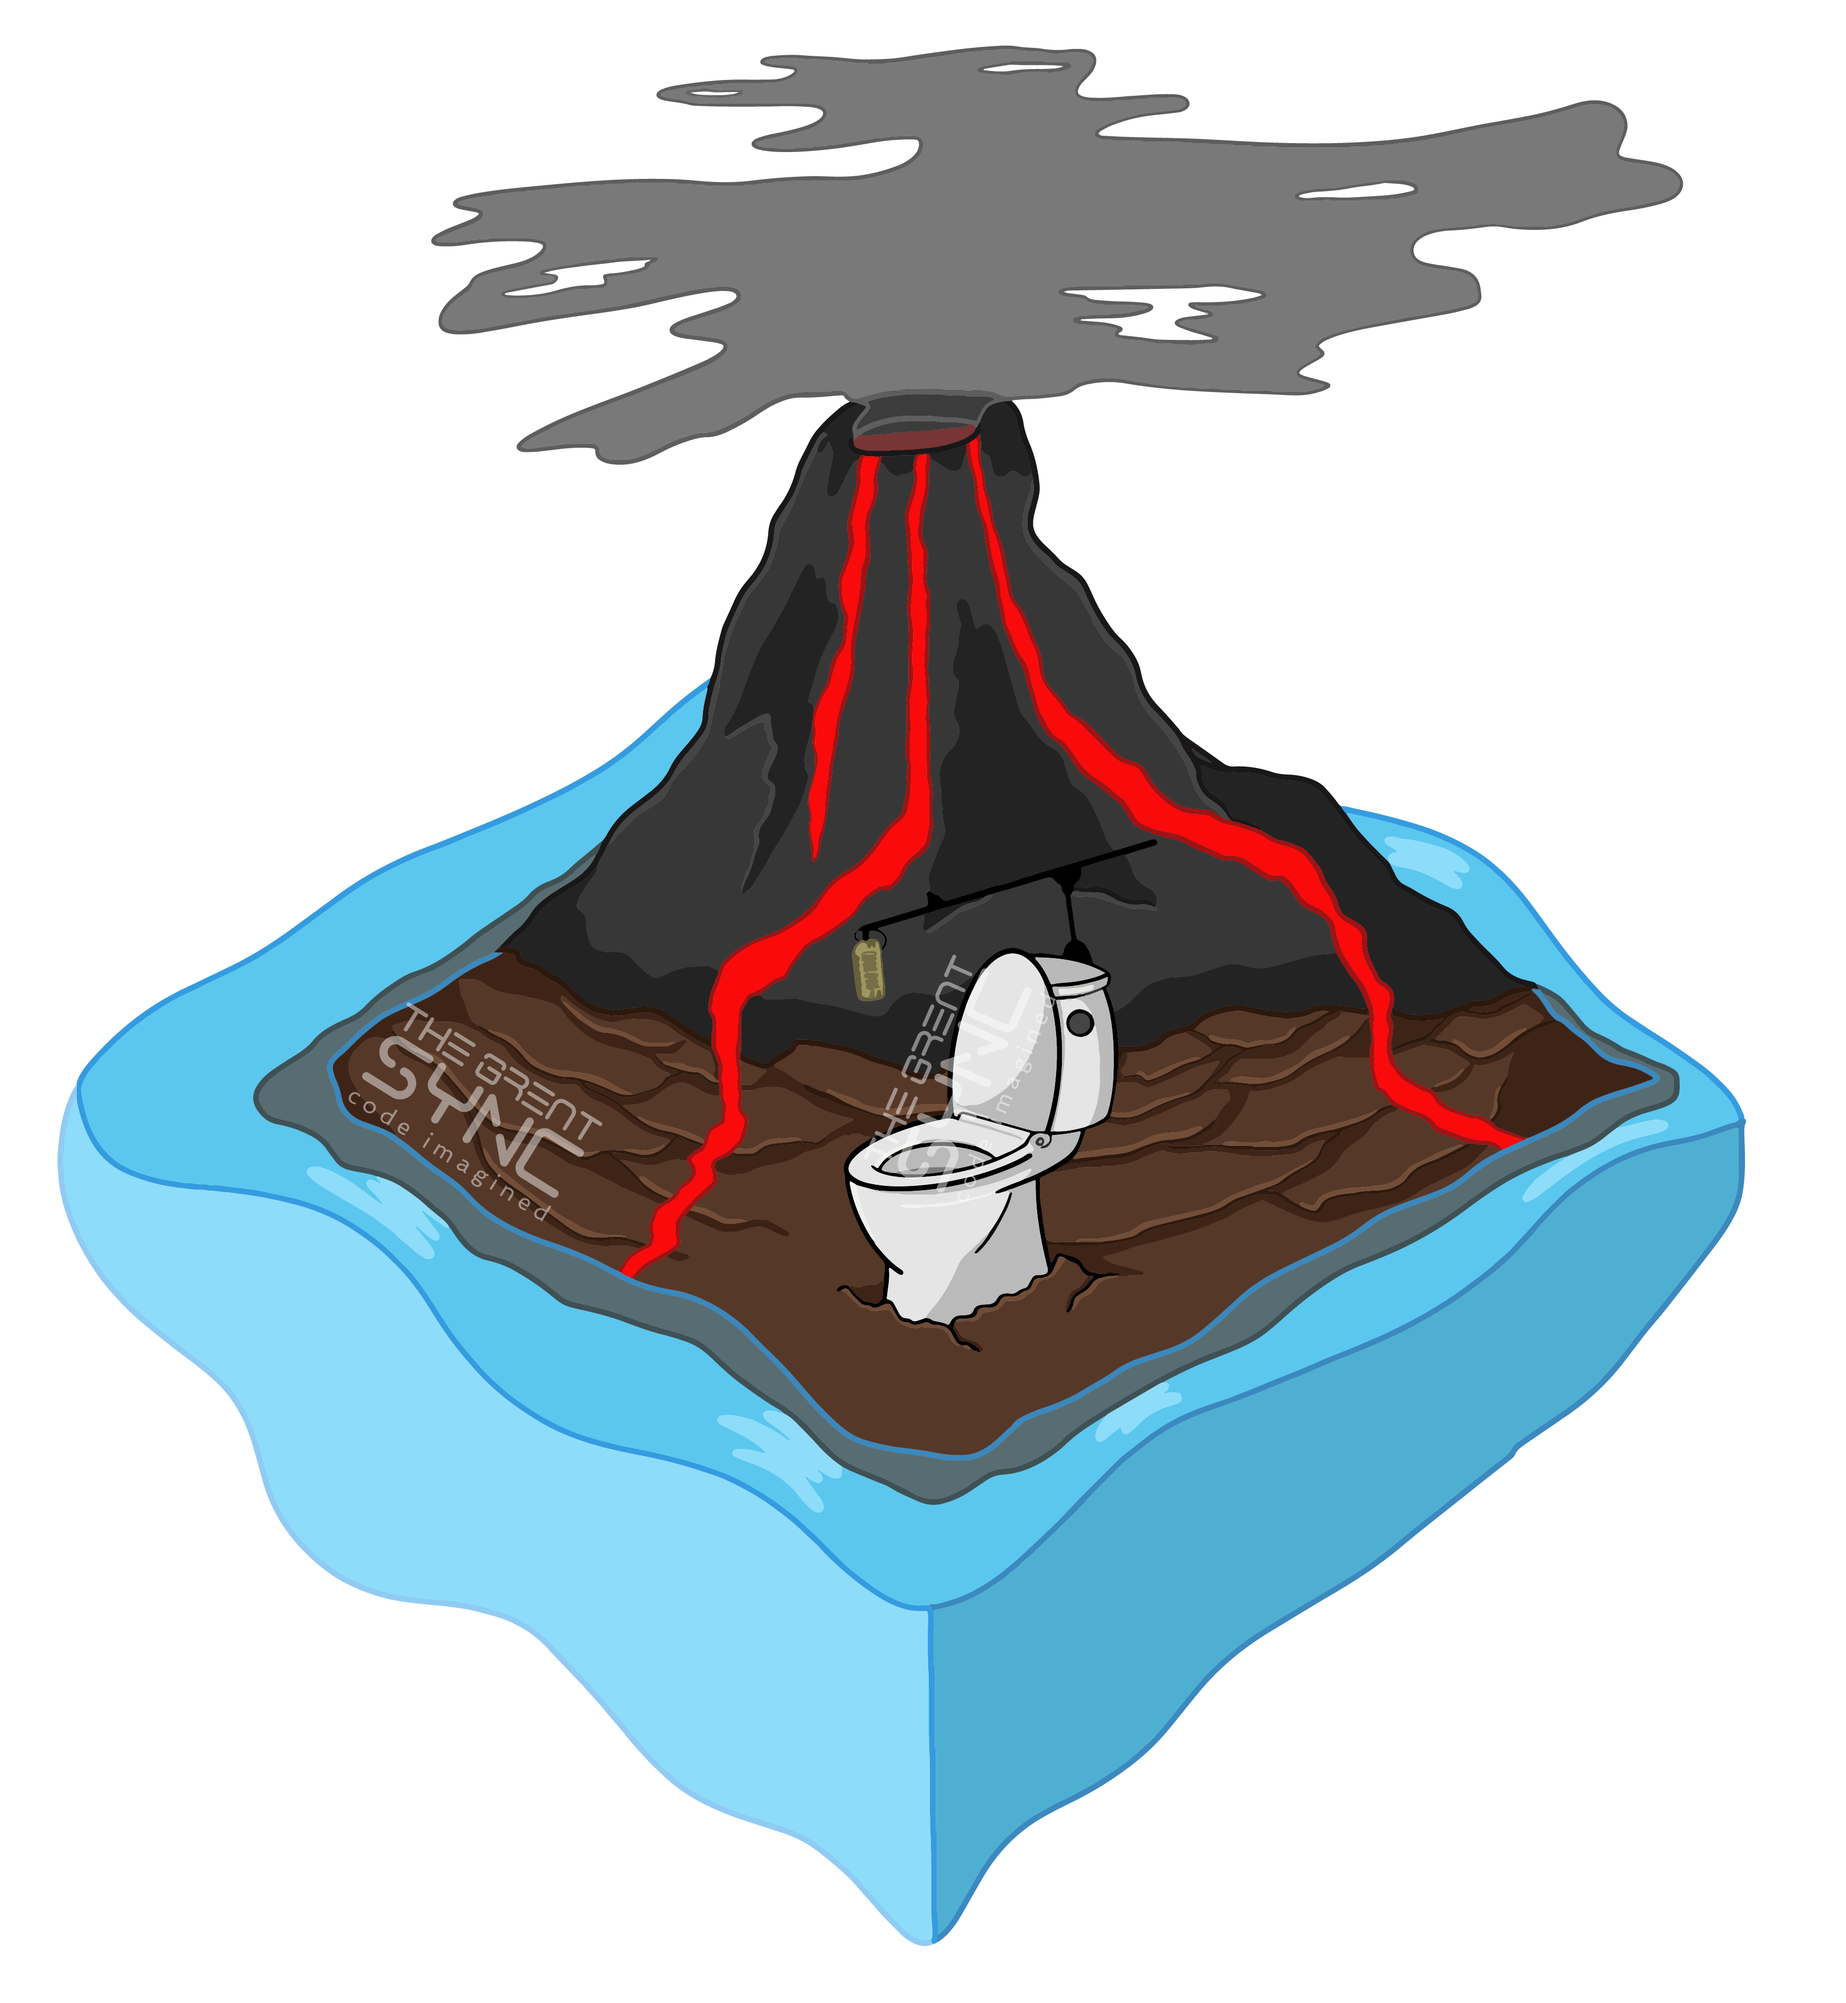
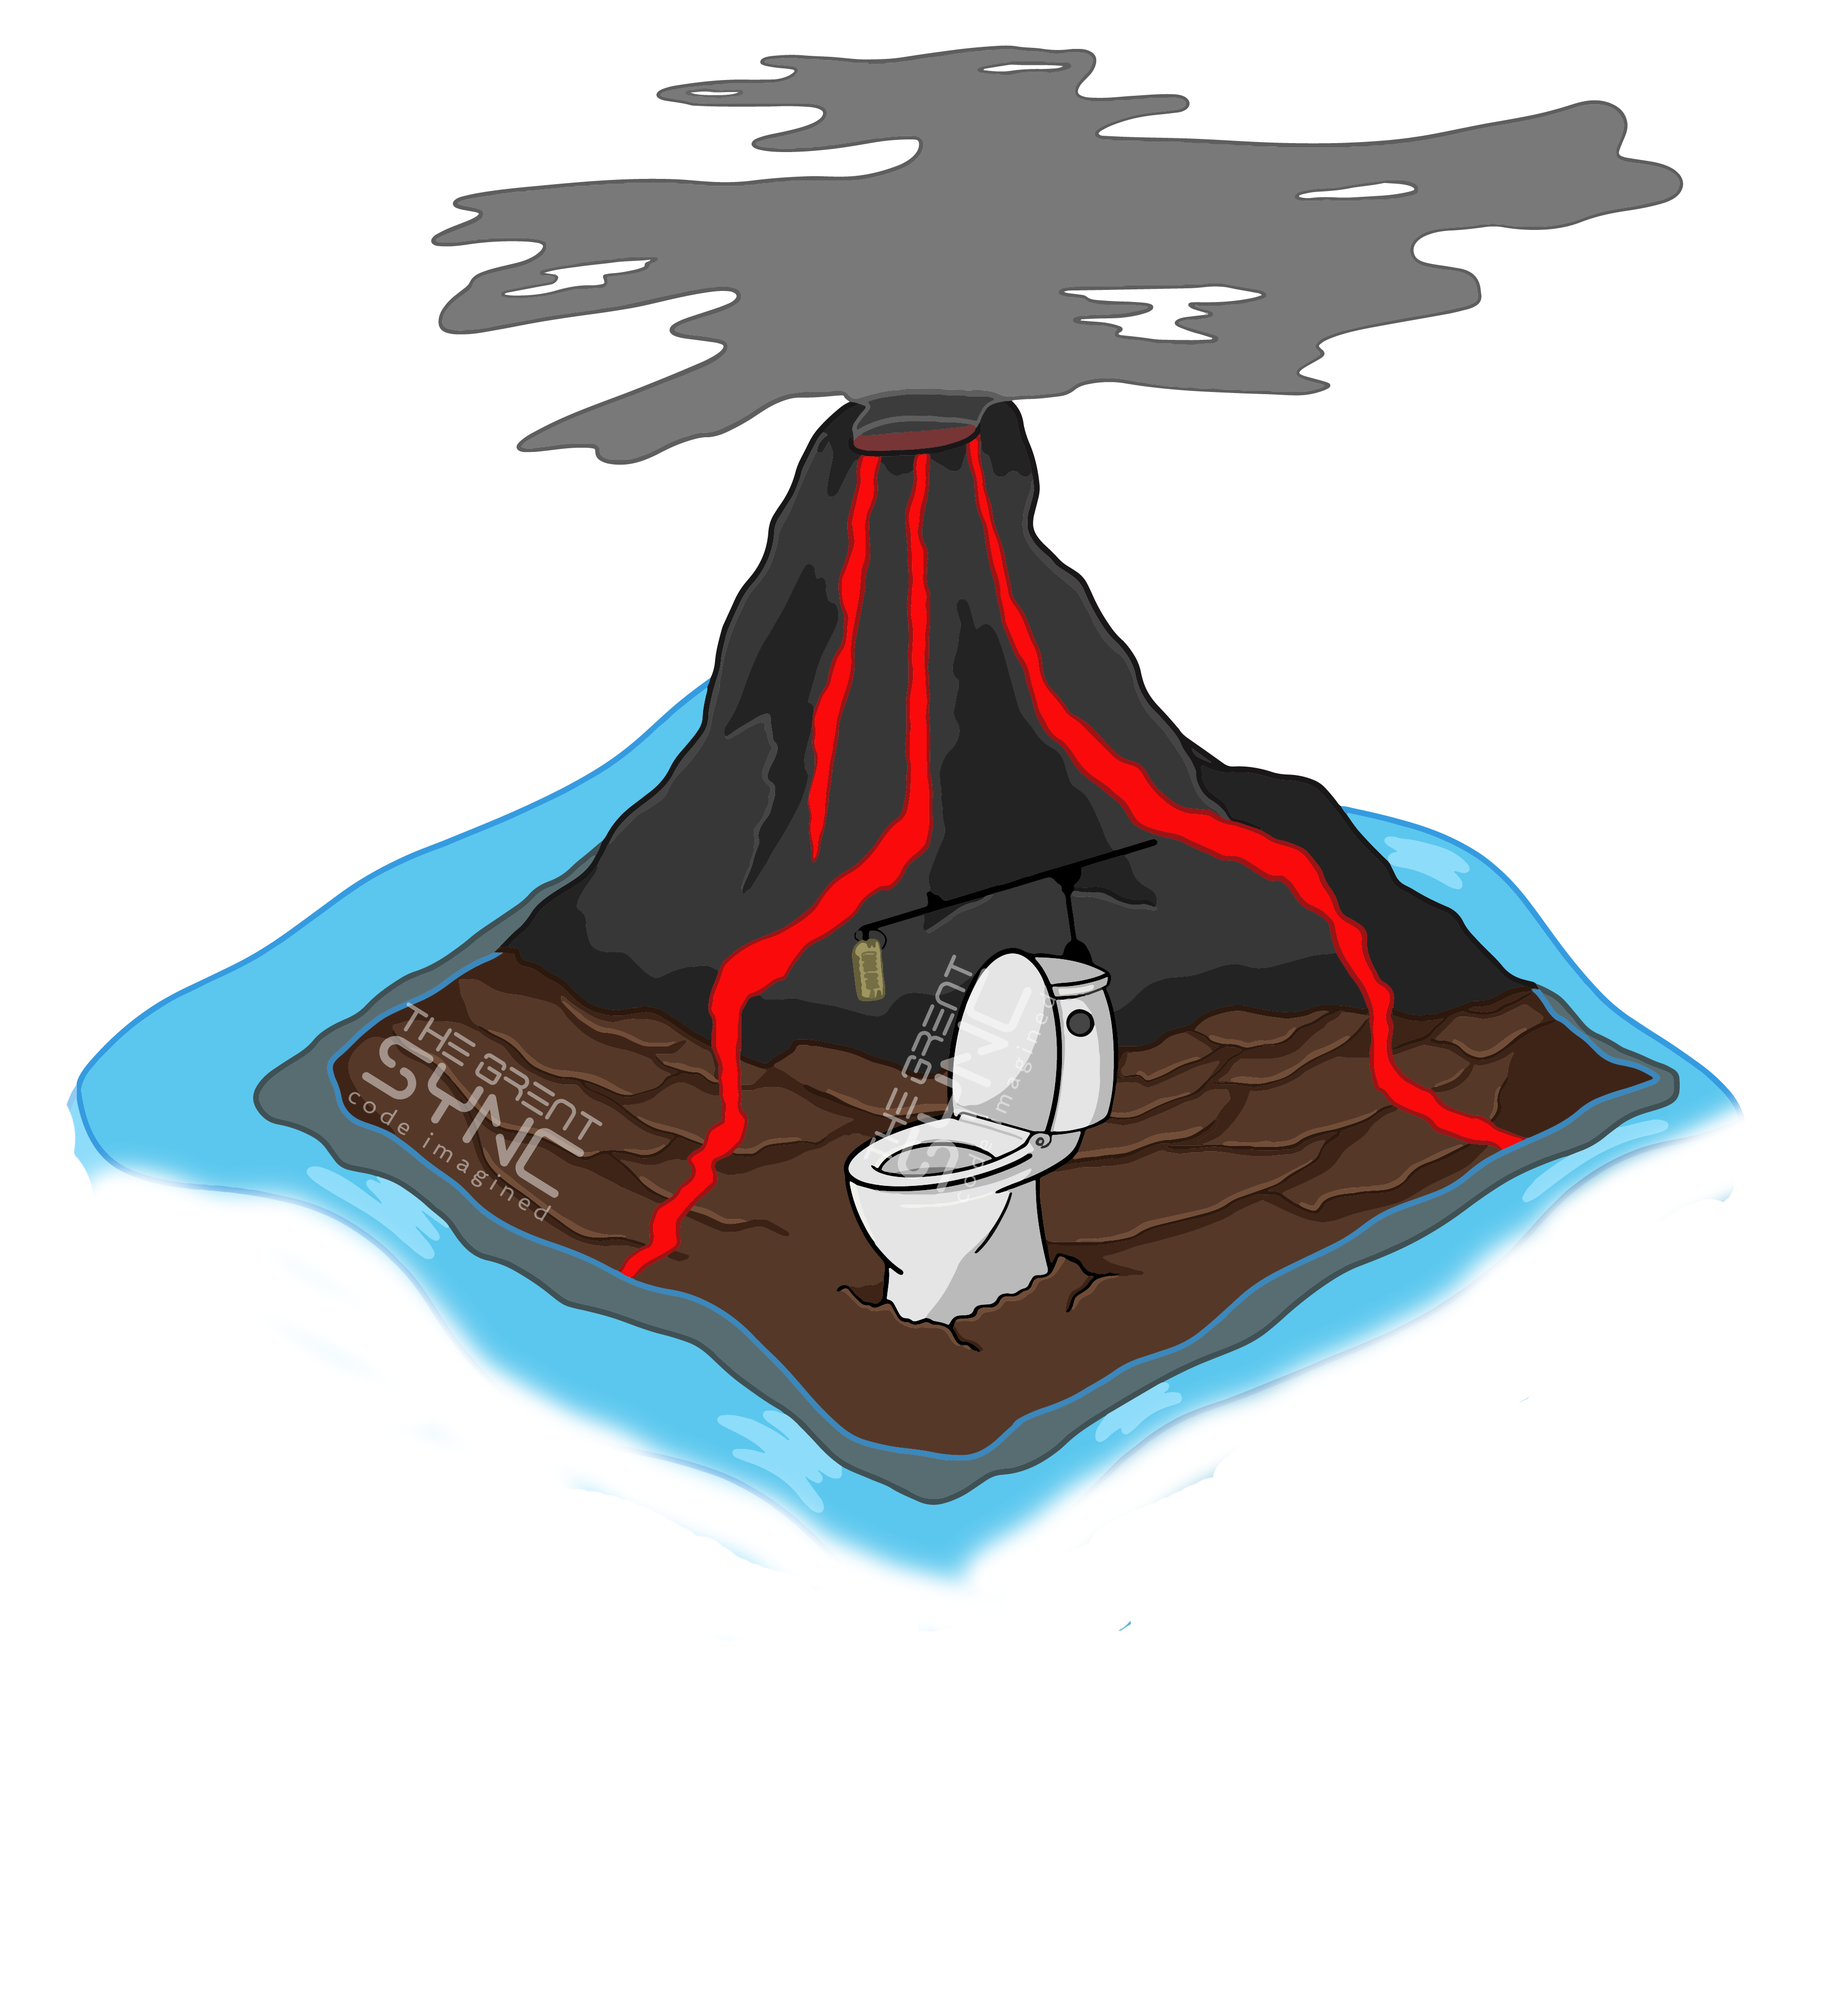
add sphere

Changed region(s): [[0.0311, 0.5269, 0.9632, 0.9919]]

diff --git a/src/content/illustrations/execution_stack/executionStack.js b/src/content/illustrations/execution_stack/executionStack.js
@@ -1,5 +1,5 @@
 
-import React, { useEffect, useRef } from 'react';
+import React from 'react';
 // import gsap from "gsap";
 import LayeredSVG from './layeredSVG/layeredSVG.styled';
 import withAnimateOnScroll from '../../../hoc/withAnimateOnScroll';
@@ -64,9 +64,9 @@ import withAnimationContext from '../../../hoc/withAnimationContext';
 // }
 
 const ExecutionStack = (props) => {
-    let refo = useRef(null);
+    // let refo = useRef(null);
 
-    useEffect(() => {
+    // useEffect(() => {
         // const rocks = refo.querySelectorAll('g[id*="rock"]');
         // const roots = refo.querySelectorAll('g[id*="root"]');
         // const drops = refo.querySelectorAll('g[id*="drop"]');
@@ -75,12 +75,12 @@ const ExecutionStack = (props) => {
         // props.tl.add(foaming(foam));
         // props.tl.add(dropletSpray(drops));
         // props.tl.add(rootGrow(roots));
-    }, [])
+    // }, [])
      
     
     return (
-        <div id="executionStack" ref={(el) => (refo = el)}>
-                <LayeredSVG/>
+        <div id="executionStack">
+            <LayeredSVG/>
         </div>
     )
 }

diff --git a/src/content/svg_text_grid/svgTextGrid.js b/src/content/svg_text_grid/svgTextGrid.js
@@ -8,10 +8,10 @@ import Model from '../text/model';
 import Knowledge from '../text/knowledge';
 import ExecutionStack from '../illustrations/execution_stack/executionStack';
 import GeniePrototype from '../illustrations/prototype_genie/prototypeGenie';
+import { Sphere } from "../illustrations/sphere/sphere";
 
 const Invocation = lazy(() => import( '../illustrations/invocation/Invocation'));
 const RainIsland = lazy(() => import( '../illustrations/rain_island/rainIsland'));
-const RockIsland = lazy(() => import('../illustrations/rock_island/rockIsland'));
 
 const SvgTextGrid = () => {
   const isSSR = typeof window === "undefined"
@@ -51,11 +51,7 @@ const SvgTextGrid = () => {
               <Model />
             </GridArea>
             <GridArea  name="svg5" color="#5F5980">
-            {!isSSR && (
-             <React.Suspense fallback={<div>Loading...</div>}>
-                <RockIsland />
-             </React.Suspense>
-            )}
+                <Sphere />
             </GridArea>
             <GridArea  name="svg5_text" color="#008578">
               <Knowledge />

diff --git a/src/content/illustrations/sphere/sphere.js b/src/content/illustrations/sphere/sphere.js
@@ -1,0 +1,25 @@
+import React from 'react';
+import { StaticImage } from "gatsby-plugin-image"
+import styled from 'styled-components';
+
+const SphereContainer = styled.div`
+    position: absolute;
+    bottom: 5%;
+    left: 21%;
+    z-index: 2000;
+    width: 65%;
+`
+
+export const Sphere = () =>  (
+        <SphereContainer>
+            <StaticImage
+                src="../../../images/sphere.png"
+                alt="A sphere containing an in ocean with some islands, and a submarine hovering over."
+                placeholder="tracedSVG"
+                fullWidth
+            />
+        </SphereContainer>
+)
+
+
+export default Sphere;

diff --git a/src/content/illustrations/execution_stack/layeredSVG/layers/volacono.styled.js b/src/content/illustrations/execution_stack/layeredSVG/layers/volacono.styled.js
@@ -1,0 +1,24 @@
+import React from 'react';
+import { StaticImage } from "gatsby-plugin-image"
+import styled from 'styled-components';
+
+const Volcano = styled.div`
+    position: absolute;
+    bottom: 22%;
+    left: 40%;
+    width: 17%;
+`
+
+export const VolcanoIsland = () =>  (
+        <Volcano>
+            <StaticImage
+                src="../../../../../images/volcano.png"
+                alt="An island with a volcano on it, and a toilet"
+                placeholder="tracedSVG"
+                fullWidth
+            />
+        </Volcano>
+)
+
+
+export default VolcanoIsland;

diff --git a/src/content/illustrations/execution_stack/layeredSVG/layeredSVG.styled.js b/src/content/illustrations/execution_stack/layeredSVG/layeredSVG.styled.js
@@ -8,6 +8,7 @@ import Ship from './layers/ship.styled';
 import Submarine from './layers/submarine.styled';
 import { StaticImage } from "gatsby-plugin-image"
 import LightHouseBeams from './layers/lighthouses.styled';
+import VolcanoIsland from './layers/volacono.styled';
 
 export const SVGContainer = styled.div`
     width: 85%;
@@ -98,6 +99,7 @@ const LayeredSVG = () => (
             layout="fullWidth"
         />
         <AnemoneIsland />
+        <VolcanoIsland />
         <ObjectIsland />
         <Ship 
             position={{

diff --git a/src/content/text/explainer.js b/src/content/text/explainer.js
@@ -1,6 +1,6 @@
 import React, {useContext} from 'react';
 import styled from 'styled-components';
-import {Hl, P, CallOut } from '../../components/UI/text.styled';
+import {P, CallOut } from '../../components/UI/text.styled';
 import {Button} from '../../components/UI/button.styled';
 import { SignupContext } from '../../context/toggle';
 import { H2 } from '../../components/UI/headings.styled';

diff --git a/src/content/illustrations/execution_stack/layeredSVG/layers/anemone.styled.js b/src/content/illustrations/execution_stack/layeredSVG/layers/anemone.styled.js
@@ -4,10 +4,10 @@ import styled from 'styled-components';
 
 const Anemone = styled.div`
     position: absolute;
-    bottom: 57%;
+    bottom: 55%;
     left: 21%;
     z-index: 2000;
-    width: 7%;
+    width: 9%;
 `
 
 export const AnemoneIsland = () =>  (
